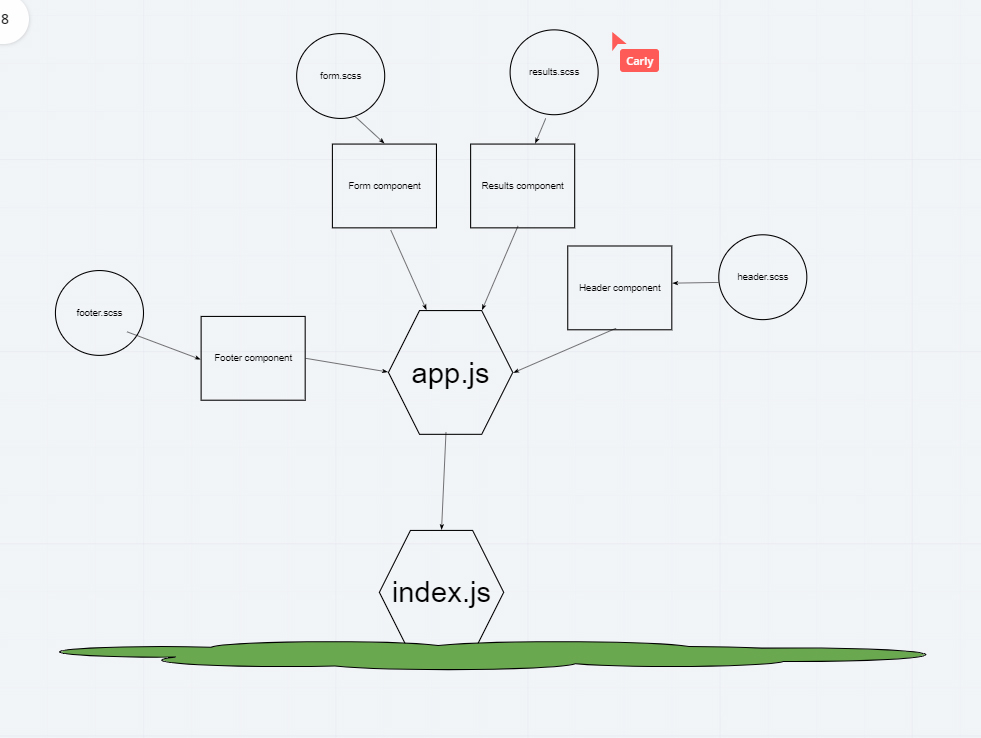
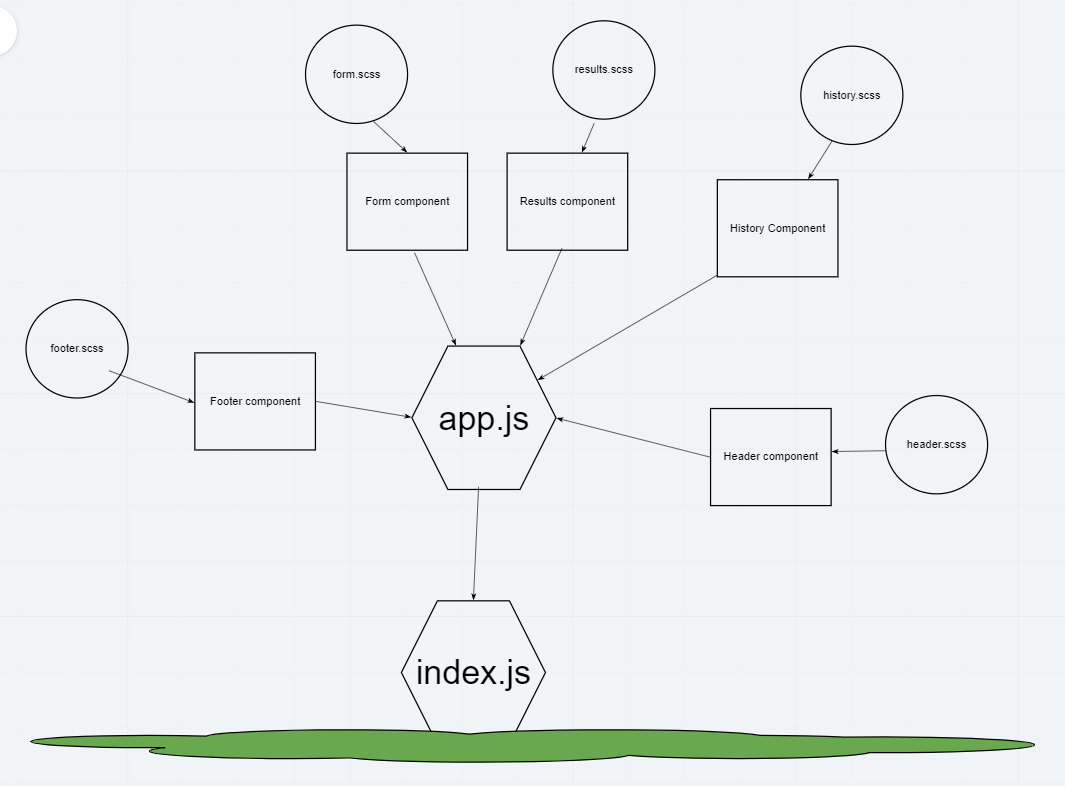
lab mostly complete

diff --git a/resty/src/components/Form/Form.js b/resty/src/components/Form/Form.js
@@ -1,58 +1,81 @@
+import { render } from '@testing-library/react';
 import React from 'react';
 import './form.scss';
 
-export default function Form(props) {
+class Form extends React.Component {
+  constructor() {
+    super();
+    this.state = {
+      urls: '',
+      methods: '',
+    };
+  }
 
-  async function handleSubmit(e) {
+  //export default function Form(props) {
+
+  handleSubmit = async (e) => {
     e.preventDefault();
 
-    //props.updateResults(e.target);
+    await this.setState({
+      urls: e.target.url.value,
+      methods: e.target.method.value,
+    });
 
-    const request = await fetch(e.target.url.value);
-    const data = await request.json();
+    this.props.updateResults({ ...this.state });
 
-    let urlData = data.results.map(urlData => urlData);
-    props.updateResults(urlData);
+
+    //await this.setState({ isLoading: true });
+    //console.log(this.state.isLoading);
+
+    // const request = await fetch(e.target.url.value, {
+    //   method: e.target.method.value,
+    // });
+    // const data = await request.json();
+    // const headers = request.headers;
+
+
+    //await this.setState({ isLoading: false });
+    //console.log(this.state.isLoading);
+  }
+
+  render() {
+    return (
+      <section className="App-form">
+        <form onSubmit={this.handleSubmit} >
+
+          <label>URL:</label>
+          <input className="input-text" name="url" type='text' />
+          <button type="submit" >Go!</button>
+          <div className="button-holder">
+            <div className="ck-button">
+              <label>
+                <input name="method" type="radio" value="GET" />
+                <span>GET</span>
+              </label>
+            </div>
+            <div className="ck-button">
+              <label>
+                <input name="method" type="radio" value="POST" />
+                <span>POST</span>
+              </label>
+            </div>
+            <div className="ck-button">
+              <label>
+                <input name="method" type="radio" value="PUT" />
+                <span>PUT</span>
+              </label>
+            </div>
+            <div className="ck-button">
+              <label>
+                <input name="method" type="radio" value="DELETE" />
+                <span>DELETE</span>
+              </label>
+            </div>
+          </div>
+        </form >
+      </section>
+    );
 
   }
-  return (
-    <section className="App-form">
-      <form onSubmit={handleSubmit} >
-
-        <label>URL:</label>
-        <input className="input-text" name="url" type='text' />
-        <button type="submit" >Go!</button>
-        <div className="button-holder">
-          <div className="ck-button">
-            <label>
-              <input name="method" type="radio" value="GET" />
-              <span>GET</span>
-            </label>
-          </div>
-          <div className="ck-button">
-            <label>
-              <input name="method" type="radio" value="POST" />
-              <span>POST</span>
-            </label>
-          </div>
-          <div className="ck-button">
-            <label>
-              <input name="method" type="radio" value="PUT" />
-              <span>PUT</span>
-            </label>
-          </div>
-          <div className="ck-button">
-            <label>
-              <input name="method" type="radio" value="DELETE" />
-              <span>DELETE</span>
-            </label>
-          </div>
-        </div>
-
-      </form >
-
-    </section>
-  );
-  //}
 }
-//export default Form;
+export default Form;

diff --git a/resty/src/App.js b/resty/src/App.js
@@ -1,40 +1,83 @@
 import React from 'react';
 import './App.scss';
-
+//import request from 'superagent';
+import { If, Then, Else, When, Unless, Switch, Case, Default } from 'react-if';
 import Header from './components/Header/Header.js';
 import Form from './components/Form/Form.js';
 import Results from './components/Results/Results.js';
 import Footer from './components/Footer/Footer.js';
+import History from './components/History/History.js';
 
 class App extends React.Component {
   constructor() {
     super();
     this.state = {
+      body: [],
       urls: [],
-      // methods: [],
+      methods: [],
+      headers: {},
+      history: [],
+      count: 0,
+      isLoading: false,
     };
-
   }
 
-  updateResults = (data) => {
-    console.log('data on app: ', data);
+  updateResults = async (userData) => {
     this.setState({
-      urls: [...this.state.urls, ...data],
-      //ethods: [...this.state.methods, data.method.value],
+      isLoading: true,
+      urls: [...this.state.urls, userData.urls],
+      methods: [...this.state.methods, userData.methods],
     });
+    console.log(this.state.urls);
+    console.log(this.state.methods);
 
-    console.log('this is the array: ', this.state.urls);
-    //console.log(this.state.methods);
+    let request = await fetch(userData.urls,
+      { methods: userData.methods });
+
+    const data = await request.json();
+
+    let userDataStuff = {
+      url: userData.urls,
+      method: userData.methods,
+      body: data,
+    };
+
+    let updateHistory = [...this.state.history, userDataStuff];
+
+    localStorage.setItem('queryHistory', JSON.stringify(updateHistory));
+
+    await this.setState({
+      body: data,
+      isLoading: false,
+      history: updateHistory,
+    });
+  }
+
+  componentDidMount() {
+    let history = JSON.parse(localStorage.getItem('queryHistory')) || [];
+    this.setState({ history });
   }
 
   render() {
     return (
       <div className="App">
         <Header />
-        <Form updateResults={this.updateResults} />
-        <Results data={this.state} />
+        <main>
+          <Form updateResults={this.updateResults} />
+          <History history={this.state.history} />
+          <If condition={this.state.isLoading}>
+            <Then>
+              {console.log(this.state.isLoading)}
+              <h2>Loading...</h2>
+            </Then>
+
+            <Else>
+              <Results data={this.state} />
+            </Else>
+          </If>
+        </main>
         <Footer />
-      </div>
+      </div >
     );
   }
 

diff --git a/resty/src/components/Results/Results.js b/resty/src/components/Results/Results.js
@@ -1,23 +1,20 @@
 import React from 'react';
 import './results.scss';
+import JSONPretty from 'react-json-pretty';
 
 
 export default function Results(props) {
-  // render() {
   return (
 
     <article>
-      <ul className="methods-list">
-        {props.data.urls.map((data, index) => <li key={index}> {data.name}</li>)}
-      </ul>
-      <ul className="url-list">
-        {props.data.urls.map((data, index) => <li key={index}> {data.url}</li>)}
-      </ul>
+      <p>count:<JSONPretty id="json-pretty" data={props.data.count}></JSONPretty></p>
+      <p>headers:<JSONPretty id="json-pretty" data={props.data.headers}></JSONPretty></p>
 
+      <ul>
+        <li><JSONPretty id="json-pretty" data={props.data.headers}></JSONPretty></li>
+        <li>results:</li>
+        <li><JSONPretty id="json-pretty" data={props.data.body}></JSONPretty></li>
+      </ul>
     </article>
   );
-  // }
 }
-//
-//{props.data.map((url) => <li> {url}</li>)}
-//export default Results;

diff --git a/resty/src/components/History/History.js b/resty/src/components/History/History.js
@@ -1,0 +1,19 @@
+import React from 'react';
+
+import './history.scss';
+
+export default function History(props) {
+
+  return (
+    <div className='history'>
+      <ul>
+        {props.history.map((item, index) =>
+          <li key={index}>
+            <span className={`method ${item.method}`}>{`${item.method}`}</span>
+            <button className='url-history'>{`${item.url}`}</button>
+          </li>,
+        )}
+      </ul>
+    </div>
+  );
+}

diff --git a/resty/src/components/Results/results.scss b/resty/src/components/Results/results.scss
@@ -1,13 +1,19 @@
 
 article{
   display: grid;
-  grid-template-columns: 25% 50%;
+  grid-template-columns: 25% 75%;
+  grid-template-rows: 20% 80%;
   height: 500px;
   width: 75%;
   background-color: #efefef;
   border: #d8d8d8 .7px solid;
   margin: 50px auto;
   overflow: scroll;
+  ul{
+    grid-column: 2;
+    grid-row: 1;
+    
+  }
   ul li{
     list-style: none;
   }

diff --git a/resty/src/components/History/history.scss b/resty/src/components/History/history.scss
@@ -1,0 +1,5 @@
+.history{
+  ul{
+    list-style: none;
+  }
+}
